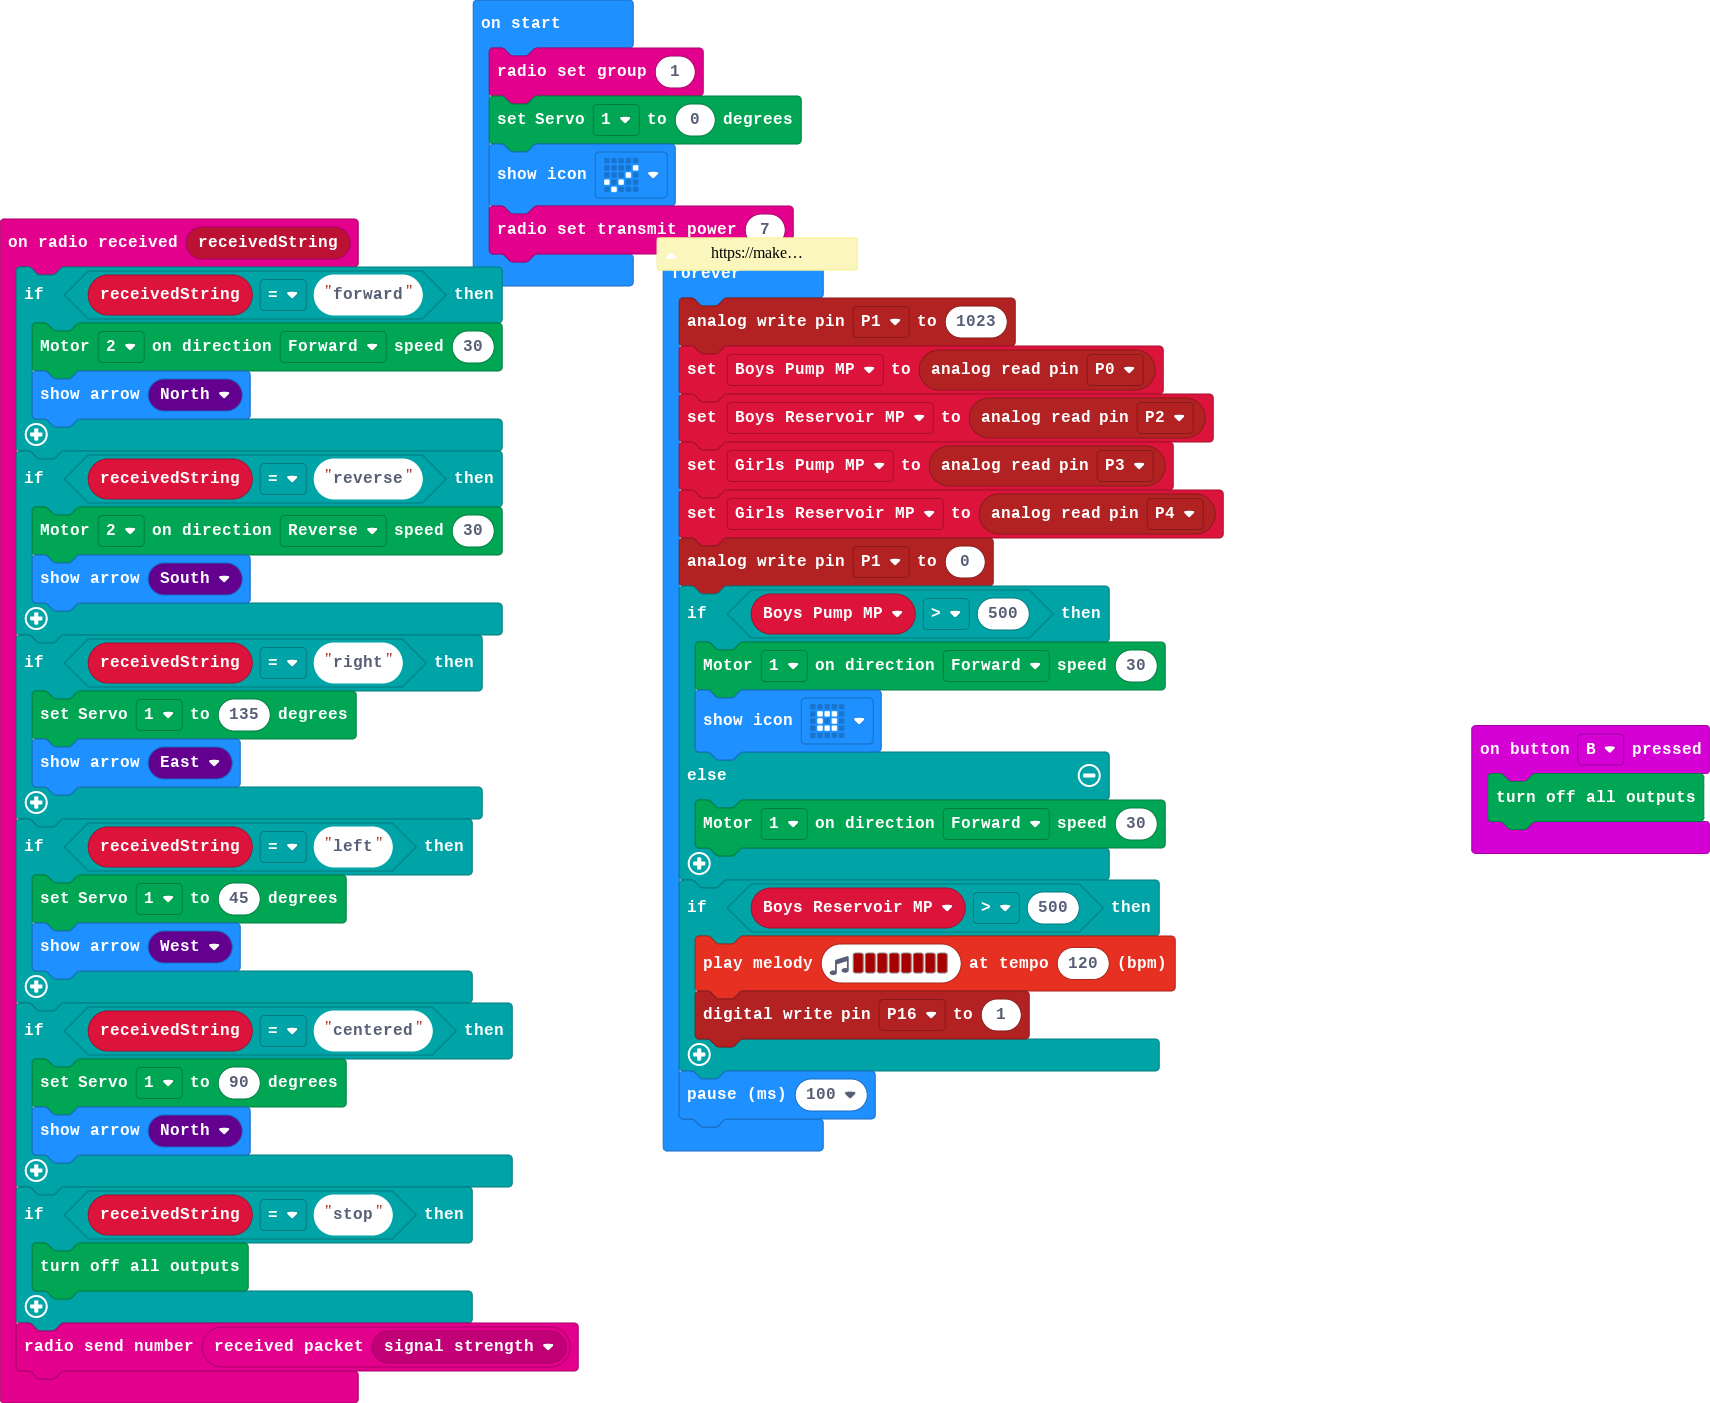
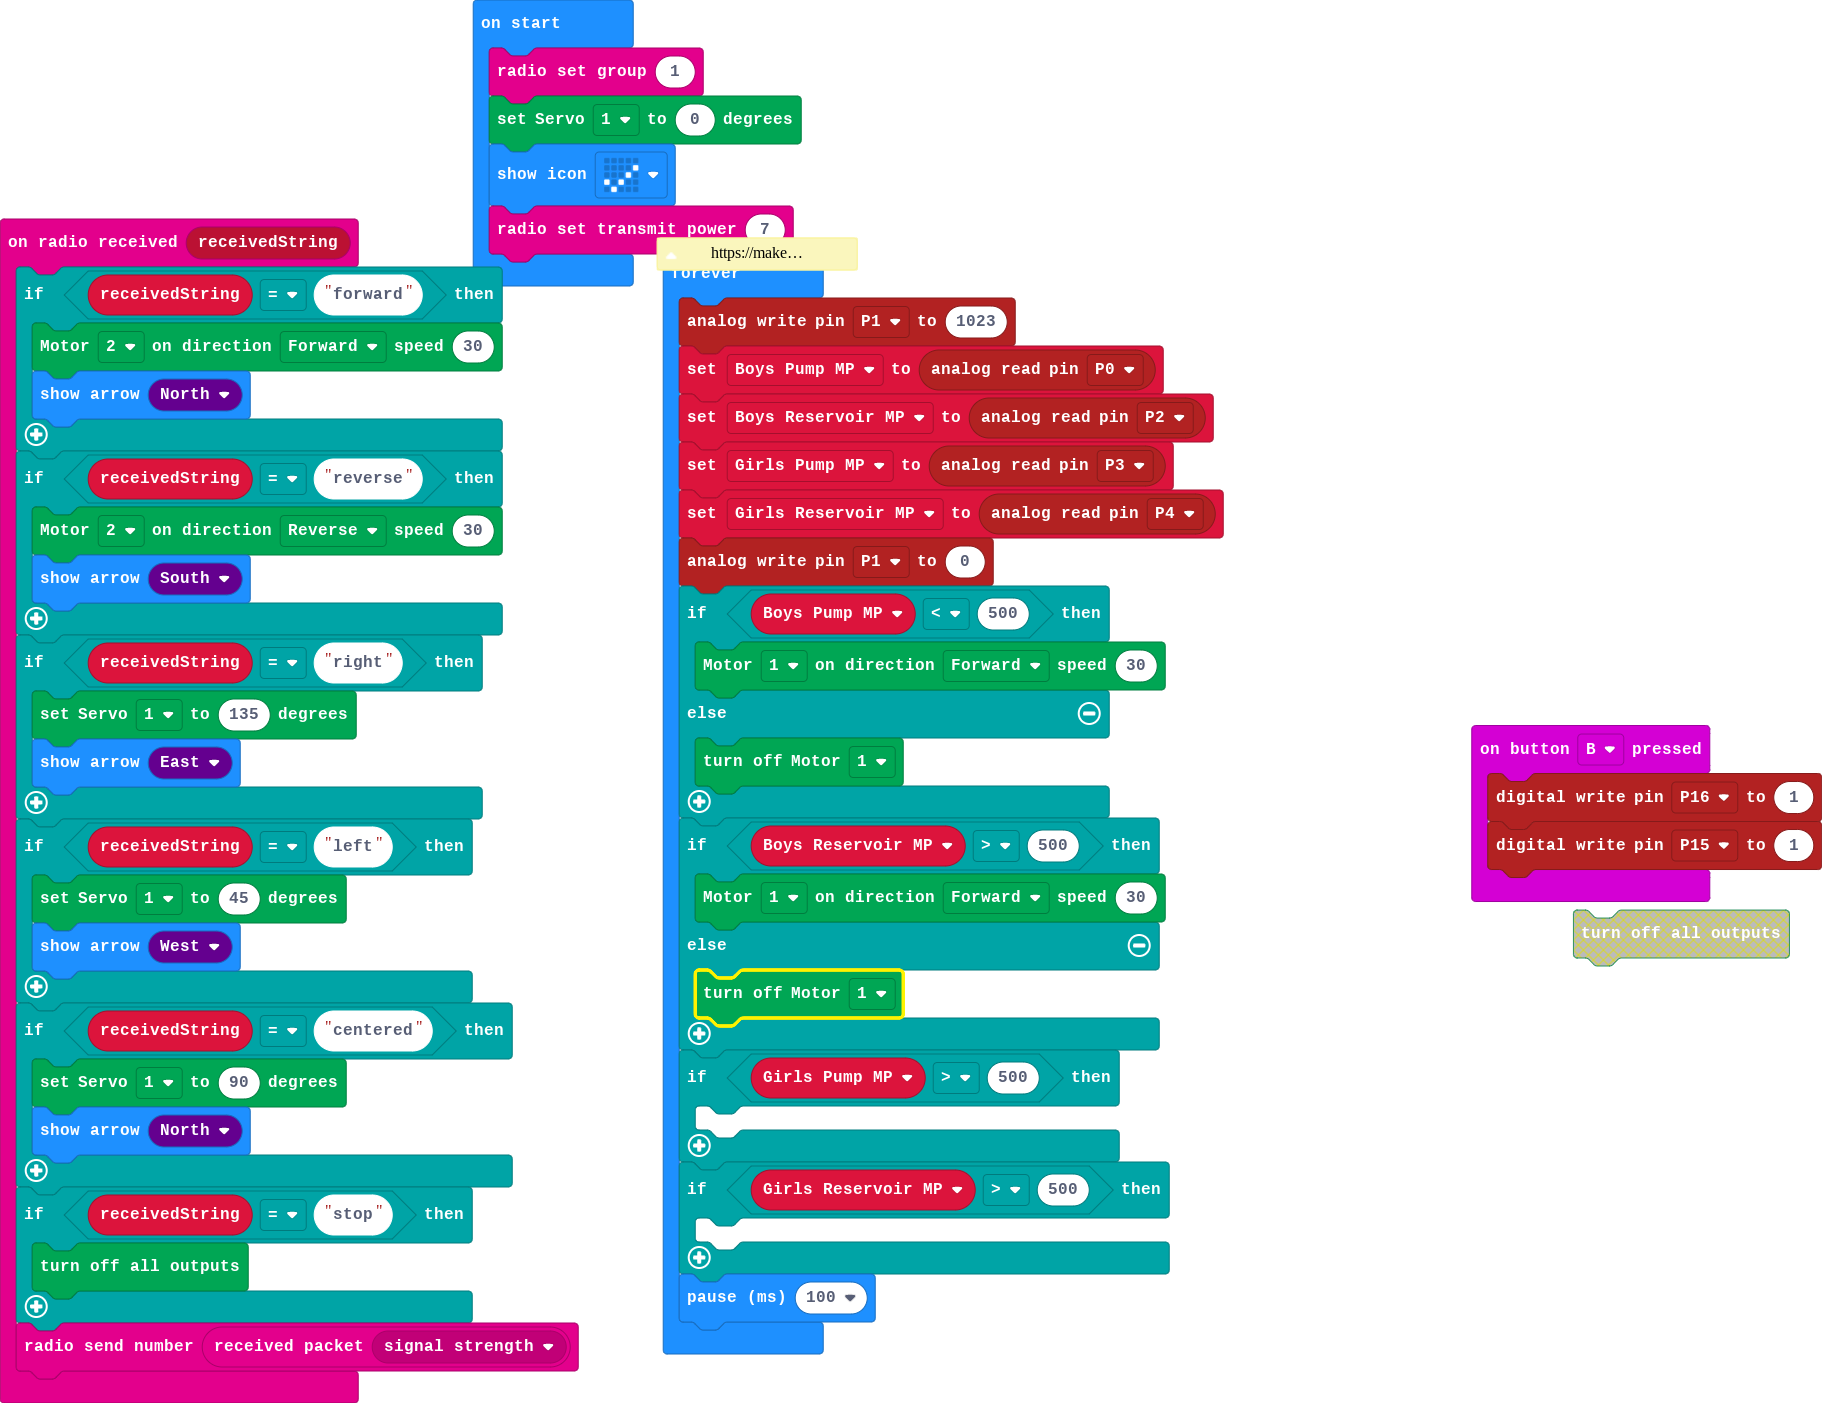
Update main.blocks, main.ts

Changed region(s): [[0.0, 0.0, 0.7129, 1.0], [0.8058, 0.4904, 1.0, 0.7049]]

diff --git a/main.ts b/main.ts
@@ -25,7 +25,8 @@ radio.onReceivedString(function (receivedString) {
     radio.sendNumber(radio.receivedPacket(RadioPacketProperty.SignalStrength))
 })
 input.onButtonPressed(Button.B, function () {
-    Kitronik_Robotics_Board.allOff()
+    pins.digitalWritePin(DigitalPin.P16, 1)
+    pins.digitalWritePin(DigitalPin.P15, 1)
 })
 let Girls_Reservoir_MP = 0
 let Girls_Pump_MP = 0
@@ -45,15 +46,21 @@ basic.forever(function () {
     Girls_Pump_MP = pins.analogReadPin(AnalogPin.P3)
     Girls_Reservoir_MP = pins.analogReadPin(AnalogPin.P4)
     pins.analogWritePin(AnalogPin.P1, 0)
-    if (Boys_Pump_MP > 500) {
+    if (Boys_Pump_MP < 500) {
         Kitronik_Robotics_Board.motorOn(Kitronik_Robotics_Board.Motors.Motor1, Kitronik_Robotics_Board.MotorDirection.Forward, 30)
-        basic.showIcon(IconNames.SmallSquare)
     } else {
-        Kitronik_Robotics_Board.motorOn(Kitronik_Robotics_Board.Motors.Motor1, Kitronik_Robotics_Board.MotorDirection.Forward, 30)
+        Kitronik_Robotics_Board.motorOff(Kitronik_Robotics_Board.Motors.Motor1)
     }
     if (Boys_Reservoir_MP > 500) {
-        music.playMelody("C5 C5 C5 C5 C5 C5 C5 C5 ", 120)
-        pins.digitalWritePin(DigitalPin.P16, 1)
+        Kitronik_Robotics_Board.motorOn(Kitronik_Robotics_Board.Motors.Motor1, Kitronik_Robotics_Board.MotorDirection.Forward, 30)
+    } else {
+        Kitronik_Robotics_Board.motorOff(Kitronik_Robotics_Board.Motors.Motor1)
+    }
+    if (Girls_Pump_MP > 500) {
+    	
+    }
+    if (Girls_Reservoir_MP > 500) {
+    	
     }
     basic.pause(100)
 })
